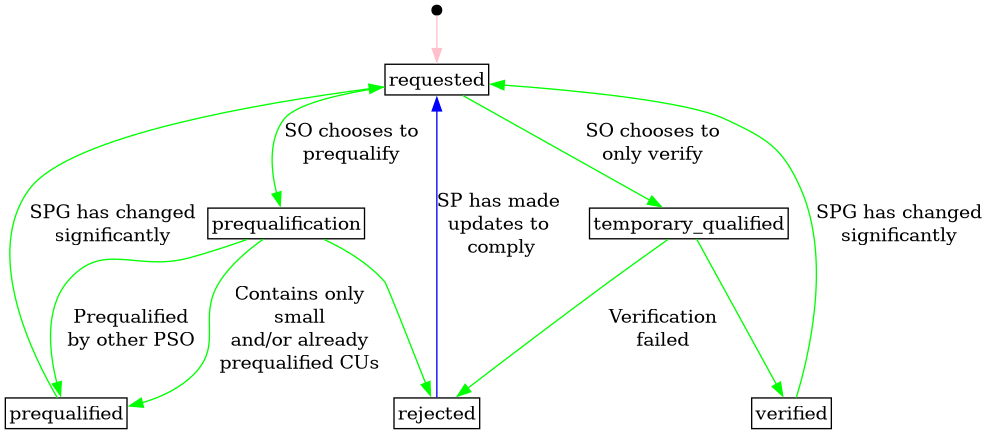
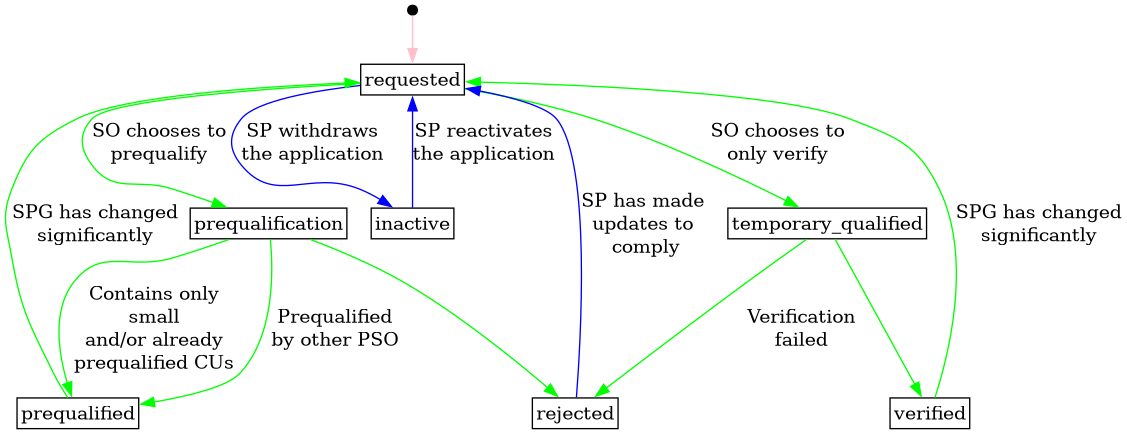
feat: allow SP to withdraw an spgpa and reactivate it later (FLEX-1461) (#1312)

diff --git a/frontend/src/intl/enum-labels.ts b/frontend/src/intl/enum-labels.ts
@@ -109,6 +109,8 @@ export type EnumLabel =
   | "service_providing_group_product_application.ramping_capability.always"
   | "service_providing_group_product_application.ramping_capability.never"
   | "service_providing_group_product_application.ramping_capability.partial"
+  | "service_providing_group_product_application.status.inactive"
+  | "service_providing_group_product_application.status.inactive.description"
   | "service_providing_group_product_application.status.prequalification"
   | "service_providing_group_product_application.status.prequalification.description"
   | "service_providing_group_product_application.status.prequalified"
@@ -308,6 +310,10 @@ export const enumLabels: Record<string, Record<EnumLabel, string>> = {
     "service_providing_group_product_application.status.rejected": "Rejected",
     "service_providing_group_product_application.status.rejected.description":
       "The application was not approved and requires updates before it can be submitted again.",
+    "service_providing_group_product_application.status.inactive":
+      "Inactivated",
+    "service_providing_group_product_application.status.inactive.description":
+      "The Service Provider has witdrawn the application. Can be set to requested again.",
     "service_providing_group_product_application.ramping_capability.always":
       "Always",
     "service_providing_group_product_application.ramping_capability.partial":
@@ -503,6 +509,9 @@ export const enumLabels: Record<string, Record<EnumLabel, string>> = {
     "service_providing_group_product_application.status.rejected": "Avvist",
     "service_providing_group_product_application.status.rejected.description":
       "Søknaden ble ikke godkjent og må oppdateres før den kan sendes inn på nytt.",
+    "service_providing_group_product_application.status.inactive": "Inaktivert",
+    "service_providing_group_product_application.status.inactive.description":
+      "Søknaden er trukket tilbake. Kan oppdateres til etterspørt status igjen.",
     "service_providing_group_product_application.ramping_capability.always":
       "Alltid",
     "service_providing_group_product_application.ramping_capability.partial":
@@ -695,6 +704,9 @@ export const enumLabels: Record<string, Record<EnumLabel, string>> = {
     "service_providing_group_product_application.status.rejected": "Avvist",
     "service_providing_group_product_application.status.rejected.description":
       "Søknaden vart ikkje godkjend og må oppdaterast før ho kan sendast inn på nytt.",
+    "service_providing_group_product_application.status.inactive": "Inaktivert",
+    "service_providing_group_product_application.status.inactive.description":
+      "Søknaden er dregen tilbake. Kan oppdaterast til etterspurt status igjen.",
     "service_providing_group_product_application.ramping_capability.always":
       "Alltid",
     "service_providing_group_product_application.ramping_capability.partial":

diff --git a/frontend/src/service_providing_group/product_application/spgpaStatus.ts b/frontend/src/service_providing_group/product_application/spgpaStatus.ts
@@ -14,6 +14,7 @@ export const spgpaStatusVariantMap: Record<
   ServiceProvidingGroupProductApplicationStatus | typeof DRAFT_STATUS,
   StatusVariant
 > = {
+  inactive: { status: "inactive", icon: IconStopWatch15 },
   requested: { status: "ongoing", icon: IconStopWatch15 },
   prequalification: { status: "ongoing", icon: IconStopWatch15 },
   temporary_qualified: {

diff --git a/frontend/src/generated-client/types.gen.ts b/frontend/src/generated-client/types.gen.ts
@@ -685,7 +685,8 @@ export type ServiceProvidingGroupProductApplicationStatus =
   | "temporary_qualified"
   | "prequalified"
   | "verified"
-  | "rejected";
+  | "rejected"
+  | "inactive";
 
 /**
  * Whether the service providing group can ramp in accordance with the product requirements during both activation and deactivation.

diff --git a/frontend/src/components/StatusBadge.tsx b/frontend/src/components/StatusBadge.tsx
@@ -9,6 +9,7 @@ export type StatusVariant = {
     | "approved-with-warning"
     | "approved"
     | "stopped"
+    | "inactive"
     | "temporarily-stopped";
   icon: ComponentType<SvgIconProps>;
 };

diff --git a/frontend/src/generated-client/zod.gen.ts b/frontend/src/generated-client/zod.gen.ts
@@ -577,6 +577,7 @@ export const zServiceProvidingGroupProductApplicationStatus = z.enum([
   "prequalified",
   "verified",
   "rejected",
+  "inactive",
 ]);
 
 /**

diff --git a/test/api_client_tests/test_spg_product_application.py b/test/api_client_tests/test_spg_product_application.py
@@ -882,3 +882,80 @@ def test_no_read_access(data):
         )
         assert isinstance(spgpas, ErrorMessage)
         assert spgpas.code == "42501"
+
+
+# RLS: SPGPA-SP002
+def test_spgpa_sp_inactive(data):
+    (sts, spg_ids, _, client_sp, so_clients, so_ids, pt_ids) = data
+
+    client_fiso = sts.get_client(TestEntityClient.TEST, "FISO")
+    client_so = so_clients[0]
+
+    spgpa = create_service_providing_group_product_application.sync(
+        client=client_sp,
+        body=ServiceProvidingGroupProductApplicationCreateRequest(
+            service_providing_group_id=spg_ids[0],
+            procuring_system_operator_id=so_ids[0],
+            product_type_ids=[pt_ids[0]],
+            maximum_active_power_up=3.5,
+            maximum_active_power_down=3.5,
+        ),
+    )
+    assert isinstance(spgpa, ServiceProvidingGroupProductApplicationResponse)
+    spgpa_id = cast(int, spgpa.id)
+
+    def sp_set_status(status):
+        return update_service_providing_group_product_application.sync(
+            client=client_sp,
+            id=spgpa_id,
+            body=ServiceProvidingGroupProductApplicationUpdateRequest(status=status),
+        )
+
+    # SP can deactivate a requested application
+    u = sp_set_status(ServiceProvidingGroupProductApplicationStatus.INACTIVE)
+    assert isinstance(u, ServiceProvidingGroupProductApplicationResponse)
+    assert u.status == ServiceProvidingGroupProductApplicationStatus.INACTIVE
+
+    # SP cannot do anything else from inactive than going back to requested
+    u = sp_set_status(ServiceProvidingGroupProductApplicationStatus.PREQUALIFICATION)
+    assert isinstance(u, ErrorMessage)
+    u = sp_set_status(ServiceProvidingGroupProductApplicationStatus.INACTIVE)
+    assert isinstance(u, ErrorMessage)
+    u = update_service_providing_group_product_application.sync(
+        client=client_sp,
+        id=spgpa_id,
+        body=ServiceProvidingGroupProductApplicationUpdateRequest(
+            maximum_active_power_up=2.0,
+        ),
+    )
+    assert isinstance(u, ErrorMessage)
+
+    # SP can put it back to requested
+    u = sp_set_status(ServiceProvidingGroupProductApplicationStatus.REQUESTED)
+    assert isinstance(u, ServiceProvidingGroupProductApplicationResponse)
+    assert u.status == ServiceProvidingGroupProductApplicationStatus.REQUESTED
+
+    # SP cannot deactivate once the SO has started processing it
+    u = update_service_providing_group_product_application.sync(
+        client=client_so,
+        id=spgpa_id,
+        body=ServiceProvidingGroupProductApplicationUpdateRequest(
+            status=ServiceProvidingGroupProductApplicationStatus.PREQUALIFICATION,
+            complete_at=datetime.datetime.fromisoformat("2024-01-01T00:00:00+01:00"),
+        ),
+    )
+    assert isinstance(u, ServiceProvidingGroupProductApplicationResponse)
+    u = sp_set_status(ServiceProvidingGroupProductApplicationStatus.INACTIVE)
+    assert isinstance(u, ErrorMessage)
+
+    # SO and FISO are not restricted by the SP rule
+    u = update_service_providing_group_product_application.sync(
+        client=client_fiso,
+        id=spgpa_id,
+        body=ServiceProvidingGroupProductApplicationUpdateRequest(
+            status=ServiceProvidingGroupProductApplicationStatus.INACTIVE,
+        ),
+    )
+    assert isinstance(u, ServiceProvidingGroupProductApplicationResponse)
+    u = sp_set_status(ServiceProvidingGroupProductApplicationStatus.REQUESTED)
+    assert isinstance(u, ServiceProvidingGroupProductApplicationResponse)

diff --git a/test/flex/models/service_providing_group_product_application_status.py b/test/flex/models/service_providing_group_product_application_status.py
@@ -2,6 +2,7 @@ from enum import StrEnum
 
 
 class ServiceProvidingGroupProductApplicationStatus(StrEnum):
+    INACTIVE = "inactive"
     PREQUALIFICATION = "prequalification"
     PREQUALIFIED = "prequalified"
     REJECTED = "rejected"

diff --git a/docs/resources/service_providing_group_product_application.md b/docs/resources/service_providing_group_product_application.md
@@ -17,6 +17,12 @@ only verification, by setting the status to either `prequalification` or
 `prequalified`, `verified` or `rejected`. If it is rejected, the service
 provider can then make updates and propose the application again.
 
+While an application is `requested`, the service provider can also withdraw it
+by setting the status to `inactive`. An `inactive` application is not processed
+and does not make the SPG ready for market. The service provider can put it
+back to `requested` later. Inactive applications do not trigger SPG grid
+prequalifications.
+
 Once an application moves past `requested`, the system creates an SPG grid
 prequalification for the procuring system operator and for each impacted system operator.
 The system also checks this regularly, so any missing grid prequalifications are created.
@@ -36,24 +42,24 @@ The system also checks this regularly, so any missing grid prequalifications are
 
 ## Fields
 
-| Name                                                                                                                     | Description                                                                                                                       | Format                                                                                                                                   | Reference                                                         |
-|--------------------------------------------------------------------------------------------------------------------------|-----------------------------------------------------------------------------------------------------------------------------------|------------------------------------------------------------------------------------------------------------------------------------------|-------------------------------------------------------------------|
-| <a name="field-id" href="#field-id">id</a>                                                                               | Unique surrogate identifier.                                                                                                      | bigint<br/>Read only                                                                                                                     |                                                                   |
-| <a name="field-service_providing_group_id" href="#field-service_providing_group_id">service_providing_group_id</a>       | Reference to the service providing group.                                                                                         | bigint<br/>Required<br/>Non-updatable                                                                                                    | [service_providing_group.id](service_providing_group.md#field-id) |
-| <a name="field-procuring_system_operator_id" href="#field-procuring_system_operator_id">procuring_system_operator_id</a> | Reference to the procuring system operator.                                                                                       | bigint<br/>Required<br/>Non-updatable                                                                                                    | [party.id](party.md#field-id)                                     |
-| <a name="field-product_type_ids" href="#field-product_type_ids">product_type_ids</a>                                     | References to the product types.                                                                                                  | <br/>Required<br/>Array of bigint                                                                                                        | [product_type.id](product_type.md#field-id)                       |
-| <a name="field-status" href="#field-status">status</a>                                                                   | The status of the application.                                                                                                    | text<br/>One of: `requested`, `prequalification`, `temporary_qualified`, `prequalified`, `verified`, `rejected`<br/>Default: `requested` |                                                                   |
-| <a name="field-maximum_active_power_up" href="#field-maximum_active_power_up">maximum_active_power_up</a>                | The maximum active power applied for in regulation direction up. Stored in kilowatts.                                             | decimal<br/>Required<br/>Min: `0`<br/>Max: `999999.999`<br/>Multiple of: `0.001`                                                         |                                                                   |
-| <a name="field-maximum_active_power_down" href="#field-maximum_active_power_down">maximum_active_power_down</a>          | The maximum active power applied for in regulation direction down. Stored in kilowatts.                                           | decimal<br/>Required<br/>Min: `0`<br/>Max: `999999.999`<br/>Multiple of: `0.001`                                                         |                                                                   |
-| <a name="field-additional_information" href="#field-additional_information">additional_information</a>                   | Free text field for extra information about the application if needed (bidding periods, unavailabilities, etc).                   | text<br/>Max length: `512`                                                                                                               |                                                                   |
-| <a name="field-prequalified_at" href="#field-prequalified_at">prequalified_at</a>                                        | When the product application was last prequalified.                                                                               | date-time                                                                                                                                |                                                                   |
-| <a name="field-verified_at" href="#field-verified_at">verified_at</a>                                                    | When the product application was last verified.                                                                                   | date-time                                                                                                                                |                                                                   |
-| <a name="field-ramping_capability" href="#field-ramping_capability">ramping_capability</a>                               | Whether the service providing group can ramp in accordance with the product requirements during both activation and deactivation. | text<br/>One of: `always`, `partial`, `never`                                                                                            |                                                                   |
-| <a name="field-ramping_description" href="#field-ramping_description">ramping_description</a>                            | Free text description of ramping details. Only required for product Manual Frequency Restoration (mFRR).                          | text                                                                                                                                     |                                                                   |
-| <a name="field-created_at" href="#field-created_at">created_at</a>                                                       | When the application was first created.                                                                                           | date-time<br/>Read only                                                                                                                  |                                                                   |
-| <a name="field-complete_at" href="#field-complete_at">complete_at</a>                                                    | When the application was last marked complete by the procuring system operator.                                                   | date-time                                                                                                                                |                                                                   |
-| <a name="field-recorded_at" href="#field-recorded_at">recorded_at</a>                                                    | When the resource was recorded (created or updated) in the system.                                                                | date-time<br/>Read only                                                                                                                  |                                                                   |
-| <a name="field-recorded_by" href="#field-recorded_by">recorded_by</a>                                                    | The identity that recorded the resource.                                                                                          | bigint<br/>Read only                                                                                                                     |                                                                   |
+| Name                                                                                                                     | Description                                                                                                                       | Format                                                                                                                                               | Reference                                                         |
+|--------------------------------------------------------------------------------------------------------------------------|-----------------------------------------------------------------------------------------------------------------------------------|------------------------------------------------------------------------------------------------------------------------------------------------------|-------------------------------------------------------------------|
+| <a name="field-id" href="#field-id">id</a>                                                                               | Unique surrogate identifier.                                                                                                      | bigint<br/>Read only                                                                                                                                 |                                                                   |
+| <a name="field-service_providing_group_id" href="#field-service_providing_group_id">service_providing_group_id</a>       | Reference to the service providing group.                                                                                         | bigint<br/>Required<br/>Non-updatable                                                                                                                | [service_providing_group.id](service_providing_group.md#field-id) |
+| <a name="field-procuring_system_operator_id" href="#field-procuring_system_operator_id">procuring_system_operator_id</a> | Reference to the procuring system operator.                                                                                       | bigint<br/>Required<br/>Non-updatable                                                                                                                | [party.id](party.md#field-id)                                     |
+| <a name="field-product_type_ids" href="#field-product_type_ids">product_type_ids</a>                                     | References to the product types.                                                                                                  | <br/>Required<br/>Array of bigint                                                                                                                    | [product_type.id](product_type.md#field-id)                       |
+| <a name="field-status" href="#field-status">status</a>                                                                   | The status of the application.                                                                                                    | text<br/>One of: `requested`, `prequalification`, `temporary_qualified`, `prequalified`, `verified`, `rejected`, `inactive`<br/>Default: `requested` |                                                                   |
+| <a name="field-maximum_active_power_up" href="#field-maximum_active_power_up">maximum_active_power_up</a>                | The maximum active power applied for in regulation direction up. Stored in kilowatts.                                             | decimal<br/>Required<br/>Min: `0`<br/>Max: `999999.999`<br/>Multiple of: `0.001`                                                                     |                                                                   |
+| <a name="field-maximum_active_power_down" href="#field-maximum_active_power_down">maximum_active_power_down</a>          | The maximum active power applied for in regulation direction down. Stored in kilowatts.                                           | decimal<br/>Required<br/>Min: `0`<br/>Max: `999999.999`<br/>Multiple of: `0.001`                                                                     |                                                                   |
+| <a name="field-additional_information" href="#field-additional_information">additional_information</a>                   | Free text field for extra information about the application if needed (bidding periods, unavailabilities, etc).                   | text<br/>Max length: `512`                                                                                                                           |                                                                   |
+| <a name="field-prequalified_at" href="#field-prequalified_at">prequalified_at</a>                                        | When the product application was last prequalified.                                                                               | date-time                                                                                                                                            |                                                                   |
+| <a name="field-verified_at" href="#field-verified_at">verified_at</a>                                                    | When the product application was last verified.                                                                                   | date-time                                                                                                                                            |                                                                   |
+| <a name="field-ramping_capability" href="#field-ramping_capability">ramping_capability</a>                               | Whether the service providing group can ramp in accordance with the product requirements during both activation and deactivation. | text<br/>One of: `always`, `partial`, `never`                                                                                                        |                                                                   |
+| <a name="field-ramping_description" href="#field-ramping_description">ramping_description</a>                            | Free text description of ramping details. Only required for product Manual Frequency Restoration (mFRR).                          | text                                                                                                                                                 |                                                                   |
+| <a name="field-created_at" href="#field-created_at">created_at</a>                                                       | When the application was first created.                                                                                           | date-time<br/>Read only                                                                                                                              |                                                                   |
+| <a name="field-complete_at" href="#field-complete_at">complete_at</a>                                                    | When the application was last marked complete by the procuring system operator.                                                   | date-time                                                                                                                                            |                                                                   |
+| <a name="field-recorded_at" href="#field-recorded_at">recorded_at</a>                                                    | When the resource was recorded (created or updated) in the system.                                                                | date-time<br/>Read only                                                                                                                              |                                                                   |
+| <a name="field-recorded_by" href="#field-recorded_by">recorded_by</a>                                                    | The identity that recorded the resource.                                                                                          | bigint<br/>Read only                                                                                                                                 |                                                                   |
 
 ## Validation Rules
 
@@ -127,10 +133,10 @@ No policies.
 
 #### Service Provider
 
-| Policy key  | Policy                                                                                                             | Status |
-|-------------|--------------------------------------------------------------------------------------------------------------------|--------|
-| SPGPA-SP001 | Create and read SPGPA for SPG they are in charge for.                                                              | DONE   |
-| SPGPA-SP002 | Update SPGPA for SPG they are in charge for, when the status is `requested` or set from `rejected` to `requested`. | DONE   |
+| Policy key  | Policy                                                                                                                                                            | Status |
+|-------------|-------------------------------------------------------------------------------------------------------------------------------------------------------------------|--------|
+| SPGPA-SP001 | Create and read SPGPA for SPG they are in charge for.                                                                                                             | DONE   |
+| SPGPA-SP002 | Update SPGPA for SPG they are in charge for, when the status is `requested`, or set from `requested` to `inactive`, or from `rejected`/`inactive` to `requested`. | DONE   |
 
 #### Third Party
 

diff --git a/docs/concepts/ready-for-market.md b/docs/concepts/ready-for-market.md
@@ -109,7 +109,7 @@ We must then check the SPG itself.
 | 2 | SPG grid prequalification status           | Check SPG grid prequalification status                        | If SPG grid prequalification status is  `not_approved`, then not ready for market                                                     |
 | 3 | SPG grid prequalification status timestamp | Check if grid prequalification timestamp is present           | If timestamp is missing, then not ready for market                                                                                    |
 | 4 | SPG grid suspension                        | Check if SPG is suspended                                     | If suspended, then not ready for market                                                                                               |
-| 5 | SPG product application status             | Check SPG product application status                          | If SPG product application status is `rejected`, then not ready for market                                                            |
+| 5 | SPG product application status             | Check SPG product application status                          | If SPG product application status is `rejected` or `inactive`, then not ready for market                                              |
 | 6 | SPG product application status timestamps  | Check if one of SPG product application timestamps is present | If status is not `temporary_qualified` and both `prequalified_at` and `verified_at` timestamps are missing, then not ready for market |
 | 7 | SPG product supension                      | Check if SPG product is suspended                             | If suspended, then not ready for market                                                                                               |
 
